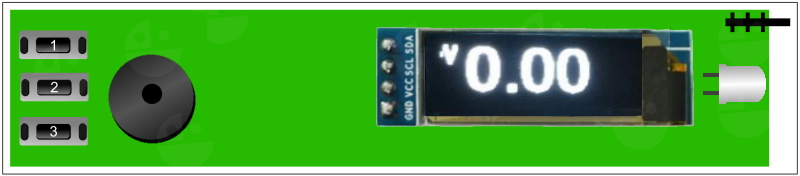
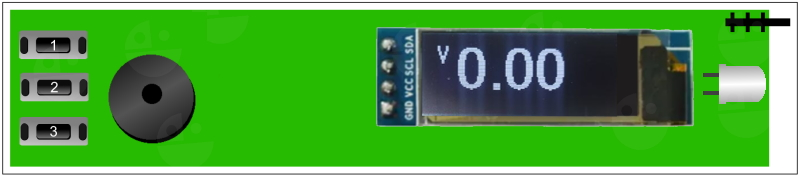
first commit6

Changed region(s): [[0.5, 0.1705, 0.75, 0.6818], [0.75, 0.1989, 0.8125, 0.6534]]

diff --git a/index.html b/index.html
@@ -100,8 +100,8 @@
               <div class="card-body p-1">
                 <h5 class="card-title">Функция и возможности.</h5>
                 <img  src="image/voltmetr.jpg" class="img-fluid w-100">
-                 <p class="card-text">Функция в которую переходит автоматически контролька, это вольтметр.</p>
-
+                 <p class="card-text">Функция в которую переходит автоматически контролька после включения, это вольтметр.<br> В данной функции мы измеряем напряжение, производим прозвонку, можем подавать плюсовой сигнал куда либо и нагружать линию для проверки под нагрузкой минусом.<br> Измеряемое напряжение от 0 до 35 вольт так что можно работать не только с легковыми авто но и с грузовыми, при измерении напряжения около 5 вольт загорается светодиод TX на самой плате ардуино, а около 12 вольт загорится светодиод RX так же на ардуино.<br><img  src="image/voltmetr_plys.jpg" class="img-fluid w-100"> Для прозвонки в режиме вольтметр нажимаем 2 кнопку (еще одно нажатие на кнопку 2 отключит подачу плюса) и на экране загорается + слева в углу, так же появляется значение в вольтах подающеюся на иглу, сила тока на игле небольшая и если коснутся массы авто то напряжение просядет до нуля и раздастся писк бузера также начнет светится светодиод L на самой ардуино(функция прозвонка работает только на минус).  Плюс появляющийся на игле в режиме прозвонки можно использовать для подачи на управление транзисторов катушек на датчики с аналоговым сигналом (датчик температуры, датчик дроссельной заслонки и т.д только используйте с эбу которые на 5 вольт опорного напряжения, а не на 3.3 вольта). <br> <img  src="image/voltmetr_n.jpg" class="img-fluid w-100"> Проверка под нагрузкой включается и выключается кнопкой 3 производится подключением к измеряемой точке резистора на 100 ом который подлючен на массу что позволяет отсеять вероятность что на проводе наводка тока или плохой контакт или управляющий сигнал, а не питание(ВНИМАНИЕ ИСПОЛЬЗУЙТЕ КРАТКОВРЕМЕННО ФУНКЦИЮ НАГРУЗКИ ПОДАВАЯ ПЛЮС НА ИГЛУ В ЭТОМ РЕЖИМЕ РЕЗИСТОР НАГРУЗКИ ГРЕЕТСЯ). </p>
+ <p> При включенном плюсе нажимая подключить нагрузку плюс автоматически отключается и наоборот.</p>
 
 
 
